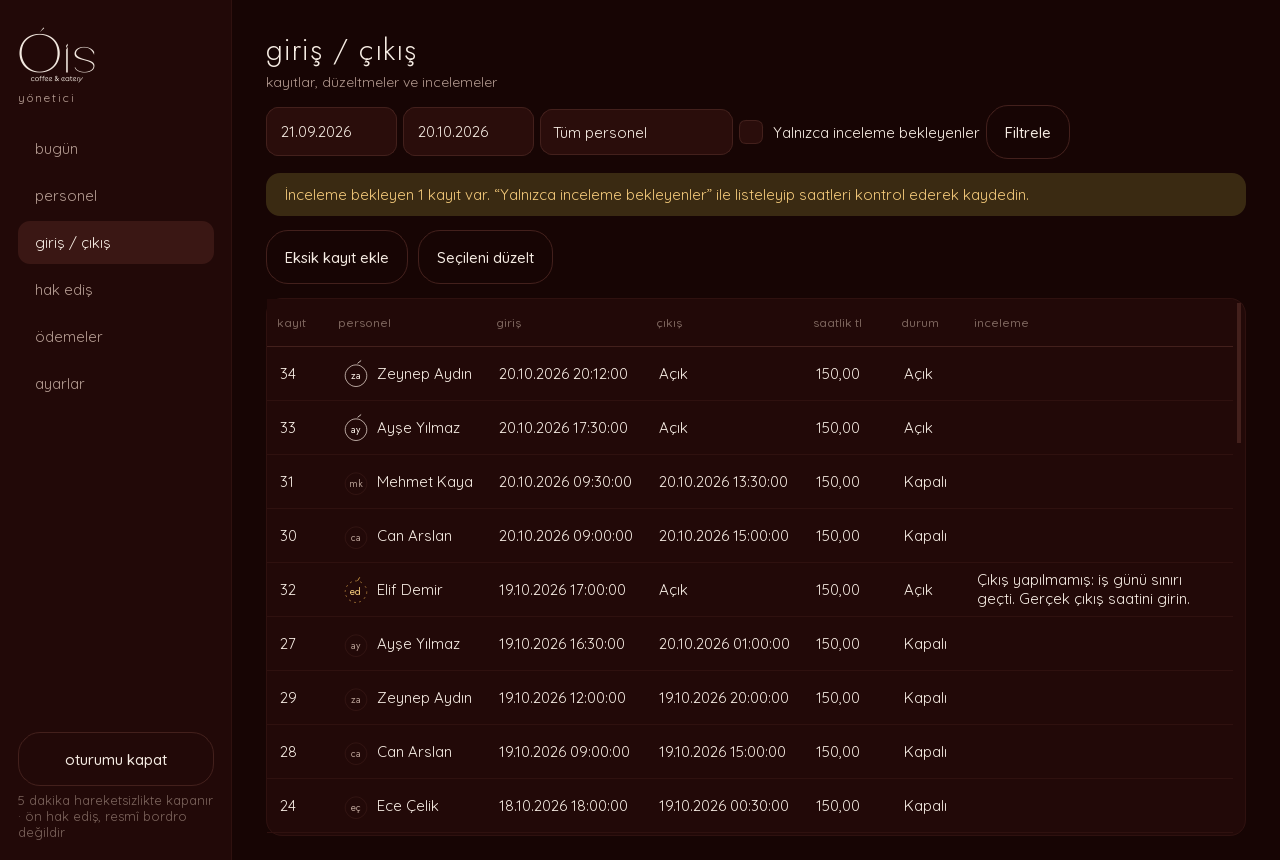
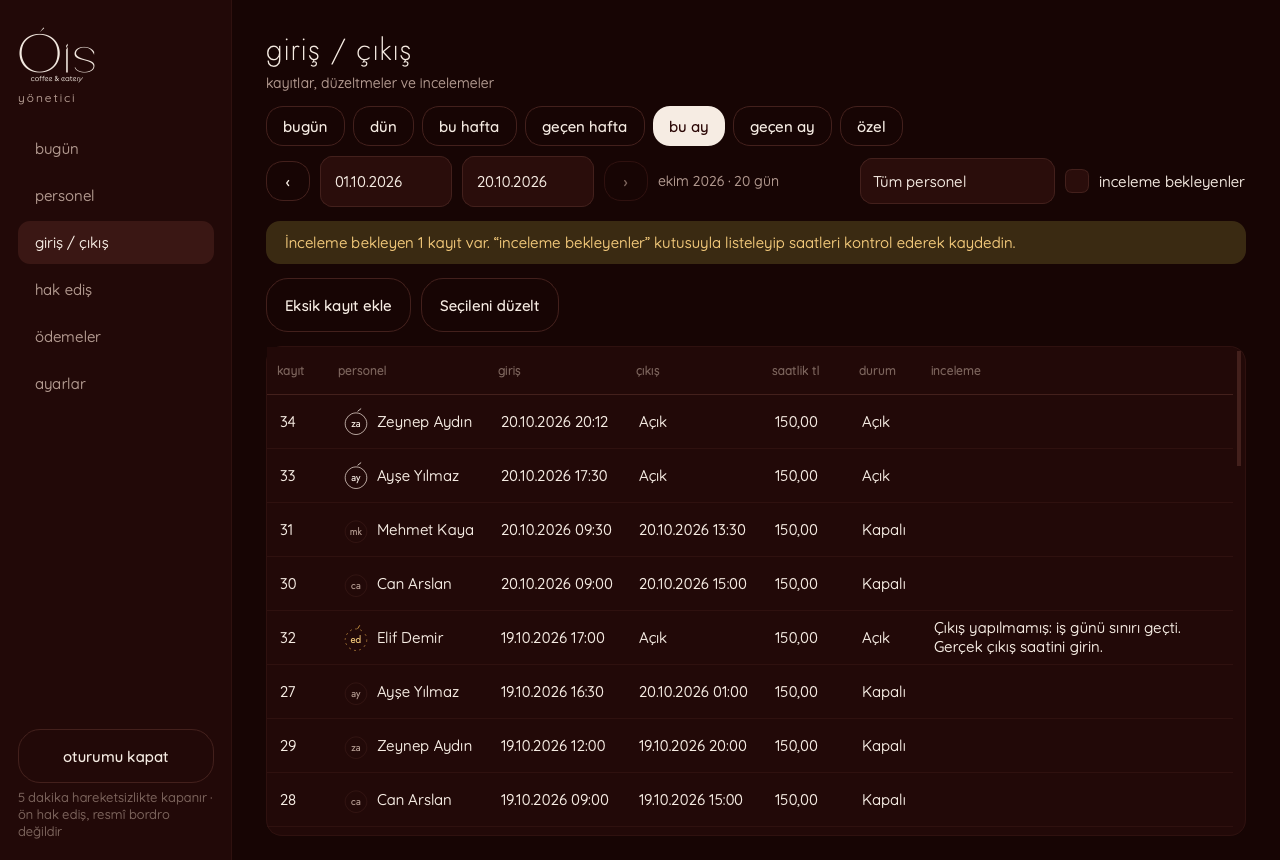
Dokümanlar: kararlar sayfası ve güncel ekran görüntüleri
- docs/KARARLAR.md: kararlar ve nedenleri (kodlar, zaman, veri, görünüm, bilerek yapılmayanlar).
- docs/ekranlar: yeni filtre, kapalı dönem, kurtarma anahtarı ve "kayıtlarım" ekranları.

diff --git a/docs/KARARLAR.md b/docs/KARARLAR.md
@@ -1,0 +1,55 @@
+# Kararlar ve nedenleri
+
+Programı yıllar sonra devralacak kişi için: neden böyle yapıldığı. Bu kararlar işletme sahibiyle
+konuşularak verildi; değiştirmeden önce onunla konuşun.
+
+## Kimlik ve kodlar
+
+| Karar | Neden |
+|---|---|
+| Personel PIN’i **ve** yönetici şifresi 4 rakam | Kiosk dokunmatik; uzun şifre ekran klavyesi ister ve unutulur. Kademeli kilit tahmini aylar sürdürür. |
+| 1111, 1234/4321, 1212, 1122 reddedilir | En çok denenen kodlar. |
+| Aynı kod birden çok kişide olabilir | “Bu kod kullanılıyor” mesajı başkasının kodunu ele verirdi. Hiçbir mesaj başkasının kodu hakkında bilgi vermez. |
+| Personel kilidi 30 sn → 5 dk; yönetici 5 → 15 → 30 dk → 1 saat | Personel işe geç kalmasın; yönetici paneli korunsun. Kilit yeniden başlatmada sürer. |
+| Unutulan yönetici şifresi: kâğıtta 20 rakamlık kurtarma anahtarı | Başka sıfırlama yolu “arka kapı” olurdu. Rakam olması kiosk tuş takımıyla girilebilsin diye; tek kullanımlık, kullanılınca yenisi gösterilir. |
+| Şifre/PIN alanları hiçbir zaman odak almaz | Windows dokunmatik klavyesi açılıp ekranı kapatmasın; uygulamanın kendi tuş takımı var. |
+
+## Zaman ve kayıt
+
+| Karar | Neden |
+|---|---|
+| İş günü 05:00’da başlar (0–12 arası ayarlanır) | Kafe 09:00’da açılır, ~01:00’de kapanır; gece yarısını geçen vardiya o güne yazılmalı. |
+| Sınırı geçen açık kayıt “çıkış unutuldu” olur; program çıkış saati **uydurmaz** | Uydurulan saat ya personeli ya işletmeyi haksız yere etkiler; gerçek saati yönetici girer. |
+| Saat uyarıları personeli durdurmaz, kaydı incelemeye işaretler | Saat bozuk diye kimse işe başlayamamalı; sorun yöneticinin önüne gelir. |
+| Kayıt ve personel silinmez; iptal edilir | Her değişiklik zincirleme özetli işlem geçmişinde iz bırakır; sonradan anlaşmazlıkta kanıt olur. |
+| İşe girişte geçerli ücret kaydın tamamına sabitlenir | Ücret değişikliği geçmişi ve açık kaydı değiştirmez. |
+| Para kuruş cinsinden tam sayı; hesap kesirli (Fraction) | Yuvarlama kayması ve büyük tutarlarda taşma olmaz. |
+| Ay kapatılınca o ay ve öncesi değiştirilemez | Ödenmiş ay sonradan sessizce değişmesin. Yeniden açma şifre ve gerekçe ister, iz bırakır. |
+| Personel kioskta yalnız kendi gün/saatini görür, para görmez | Kiosk ekranı herkesin önünde; tutar özel bilgidir. Ekran 30 sn’de kapanır. |
+
+## Veri ve dayanıklılık
+
+| Karar | Neden |
+|---|---|
+| Tamamen çevrimdışı, tek bilgisayar, SQLite | İnternet kesintisi işi durdurmaz; sunucu ve aylık ücret yok. |
+| Her yedek doğrulanır; otomatik yedekler sınırlı tutulur, elle alınanlar silinmez | Bozuk yedek, yedeksizlikten tehlikelidir. |
+| Şema değişikliği: eski dosya kopyada yükseltilir, doğrulanır, eski dosya saklanır | Güncelleme veriyi bozamaz; yarıda kalan güncelleme dosyaya dokunmaz. |
+| Daha yeni sürümün dosyasını eski program açmaz | Geri dönülen eski program yeni alanları bilmeden veriyi bozmasın. |
+| `tzdata`, Windows imajı ve CI eylemleri sabit sürümde | Yıllar sonra aynı kaynaktan aynı program derlensin. Saat dilimi verisi eskiyince CI uyarır. |
+| Kurulum dosyaları ve kaynak kod GitHub dışında arşivlenir (`scripts/arsivle.py`) | GitHub hesabı veya servis değişirse elde kurulabilir ve derlenebilir bir sürüm kalsın. |
+
+## Görünüm
+
+| Karar | Neden |
+|---|---|
+| Logo rengi bordo `#3a0300` ve krem; Jost ve Quicksand programla gelir | İşletmenin kimliği; yazı tipleri bilgisayara kurulu olmasa da aynı görünsün. |
+| Her kişi ince bir “Ó” halkası | Logodaki harf; içeride/dışarıda/unutuldu/kilitli tek bakışta anlaşılır. |
+| Süsleme amaçlı marka cümlesi yok | Sahibinin isteği: ekranlar yalnızca bilgi gösterir. |
+| Kiosk uyarısı yalnızca “Yönetici için N not var.” | Personelin yapamayacağı işleri ayrıntılı göstermek kafa karıştırır; ayrıntı yönetici panelinde. |
+| Küçük dizüstü ekranına sığar (1024 px) | Kafedeki bilgisayar küçük olabilir; yana kaydırma test edilir. |
+
+## Bilerek yapılmayanlar
+
+- **Makine dışı otomatik yedek** (USB/bulut): sona bırakıldı; şimdilik yedekleri elle başka diske kopyalayın.
+- **Kod imzalama:** ücretli sertifika gerekir; o zamana kadar Windows “bilinmeyen yayıncı” uyarısı çıkar.
+- **Ayrılan personelin verisinin silinmesi:** yasal saklama süresi mali müşavirle netleşince eklenecek.

diff --git a/CLAUDE.md b/CLAUDE.md
@@ -24,6 +24,8 @@ Python 3.12, PySide6 (Qt), SQLite, openpyxl. All user-facing text is **Turkish**
 
 ## Decisions already made with the owner (do not undo without asking)
 
+(The owner-facing version with reasons is `docs/KARARLAR.md`; keep both in sync.)
+
 - Staff PIN **and** admin code are 4 digits. Weak codes (1111, 1234/4321, 1212, 1122) rejected.
   Duplicate codes are allowed on purpose: rejecting "same as admin/other staff" would leak that code.
   Never reveal anything about other people's codes in any message.

diff --git a/README.md b/README.md
@@ -195,4 +195,4 @@ python -m vardiya --data-dir ./deneme-verisi --restore ./yedek.sqlite3
 Komut satırında şifre argümanı kullanılmaz; kurtarma şifreyi gizli girişle sorar.
 Kurtarma için diğer uygulama örneğini kapatın.
 
-Mimari ve test ayrıntıları: [TEKNIK.md](docs/TEKNIK.md) · [TESTLER.md](docs/TESTLER.md).
+Mimari ve test ayrıntıları: [TEKNIK.md](docs/TEKNIK.md) · [TESTLER.md](docs/TESTLER.md) · kararlar ve nedenleri: [KARARLAR.md](docs/KARARLAR.md).
